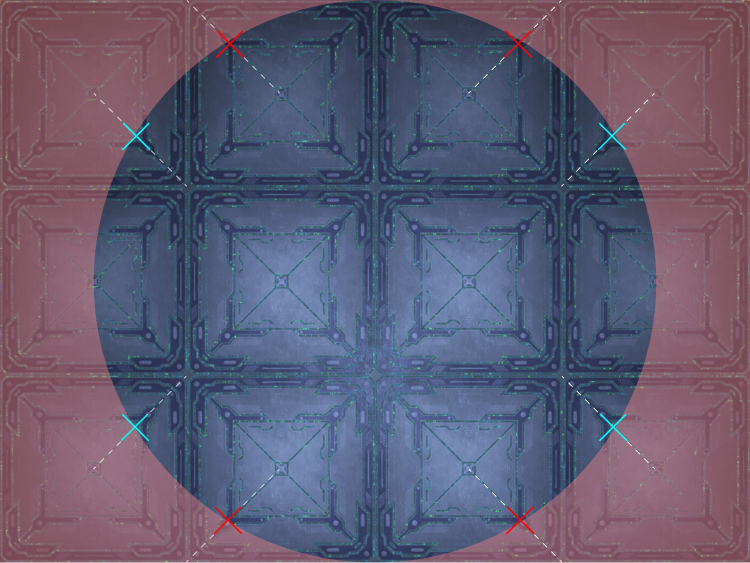
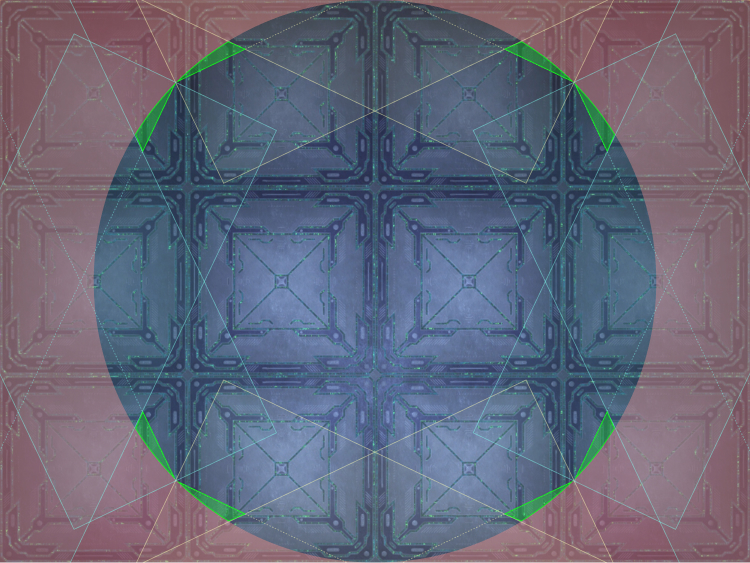
Update Sunrise Sabbath beam positions

diff --git a/_current/m4s.en.md b/_current/m4s.en.md
@@ -324,15 +324,12 @@ not get clipped by another player's beam.
 <table>
   <tr>
     <td>
-      <p>Draw a line diagonally across the tile (which will cut through the
-      tile's rivets).</p>
-      <p>Stand on that line, as close to the edge as you can.</p>
-      <ul> 
-        <li>You can move a step or two towards the clone, but <em>this is a
-        tradeoff</em>. Moving closer lowers the chance you get hit by another
-        player's beam, but also makes your beam more sensitive to your
-        position, increasing the chance your beam hits someone else.</li>
-      </ul>
+      <p>As long as all players that are baiting lasers stand anywhere within
+      the appropriate green regions below, they will not hit another player.</p>
+      <p>Moving closer to the clone lowers the chance you get hit by another
+      player's beam, but <b>this is a tradeoff</b>. As you get closer to the
+      clone, the closer you also have to be to the death wall to not hit
+      someone else with your own beam.</p>
     </td>
   </tr>
   <tr>
@@ -387,6 +384,7 @@ fight?</summary>
     </td>
   </tr>
 </table>
+</details>
 
 <script data-goatcounter="https://tuufless.goatcounter.com/count"
         async src="//gc.zgo.at/count.js"></script>
